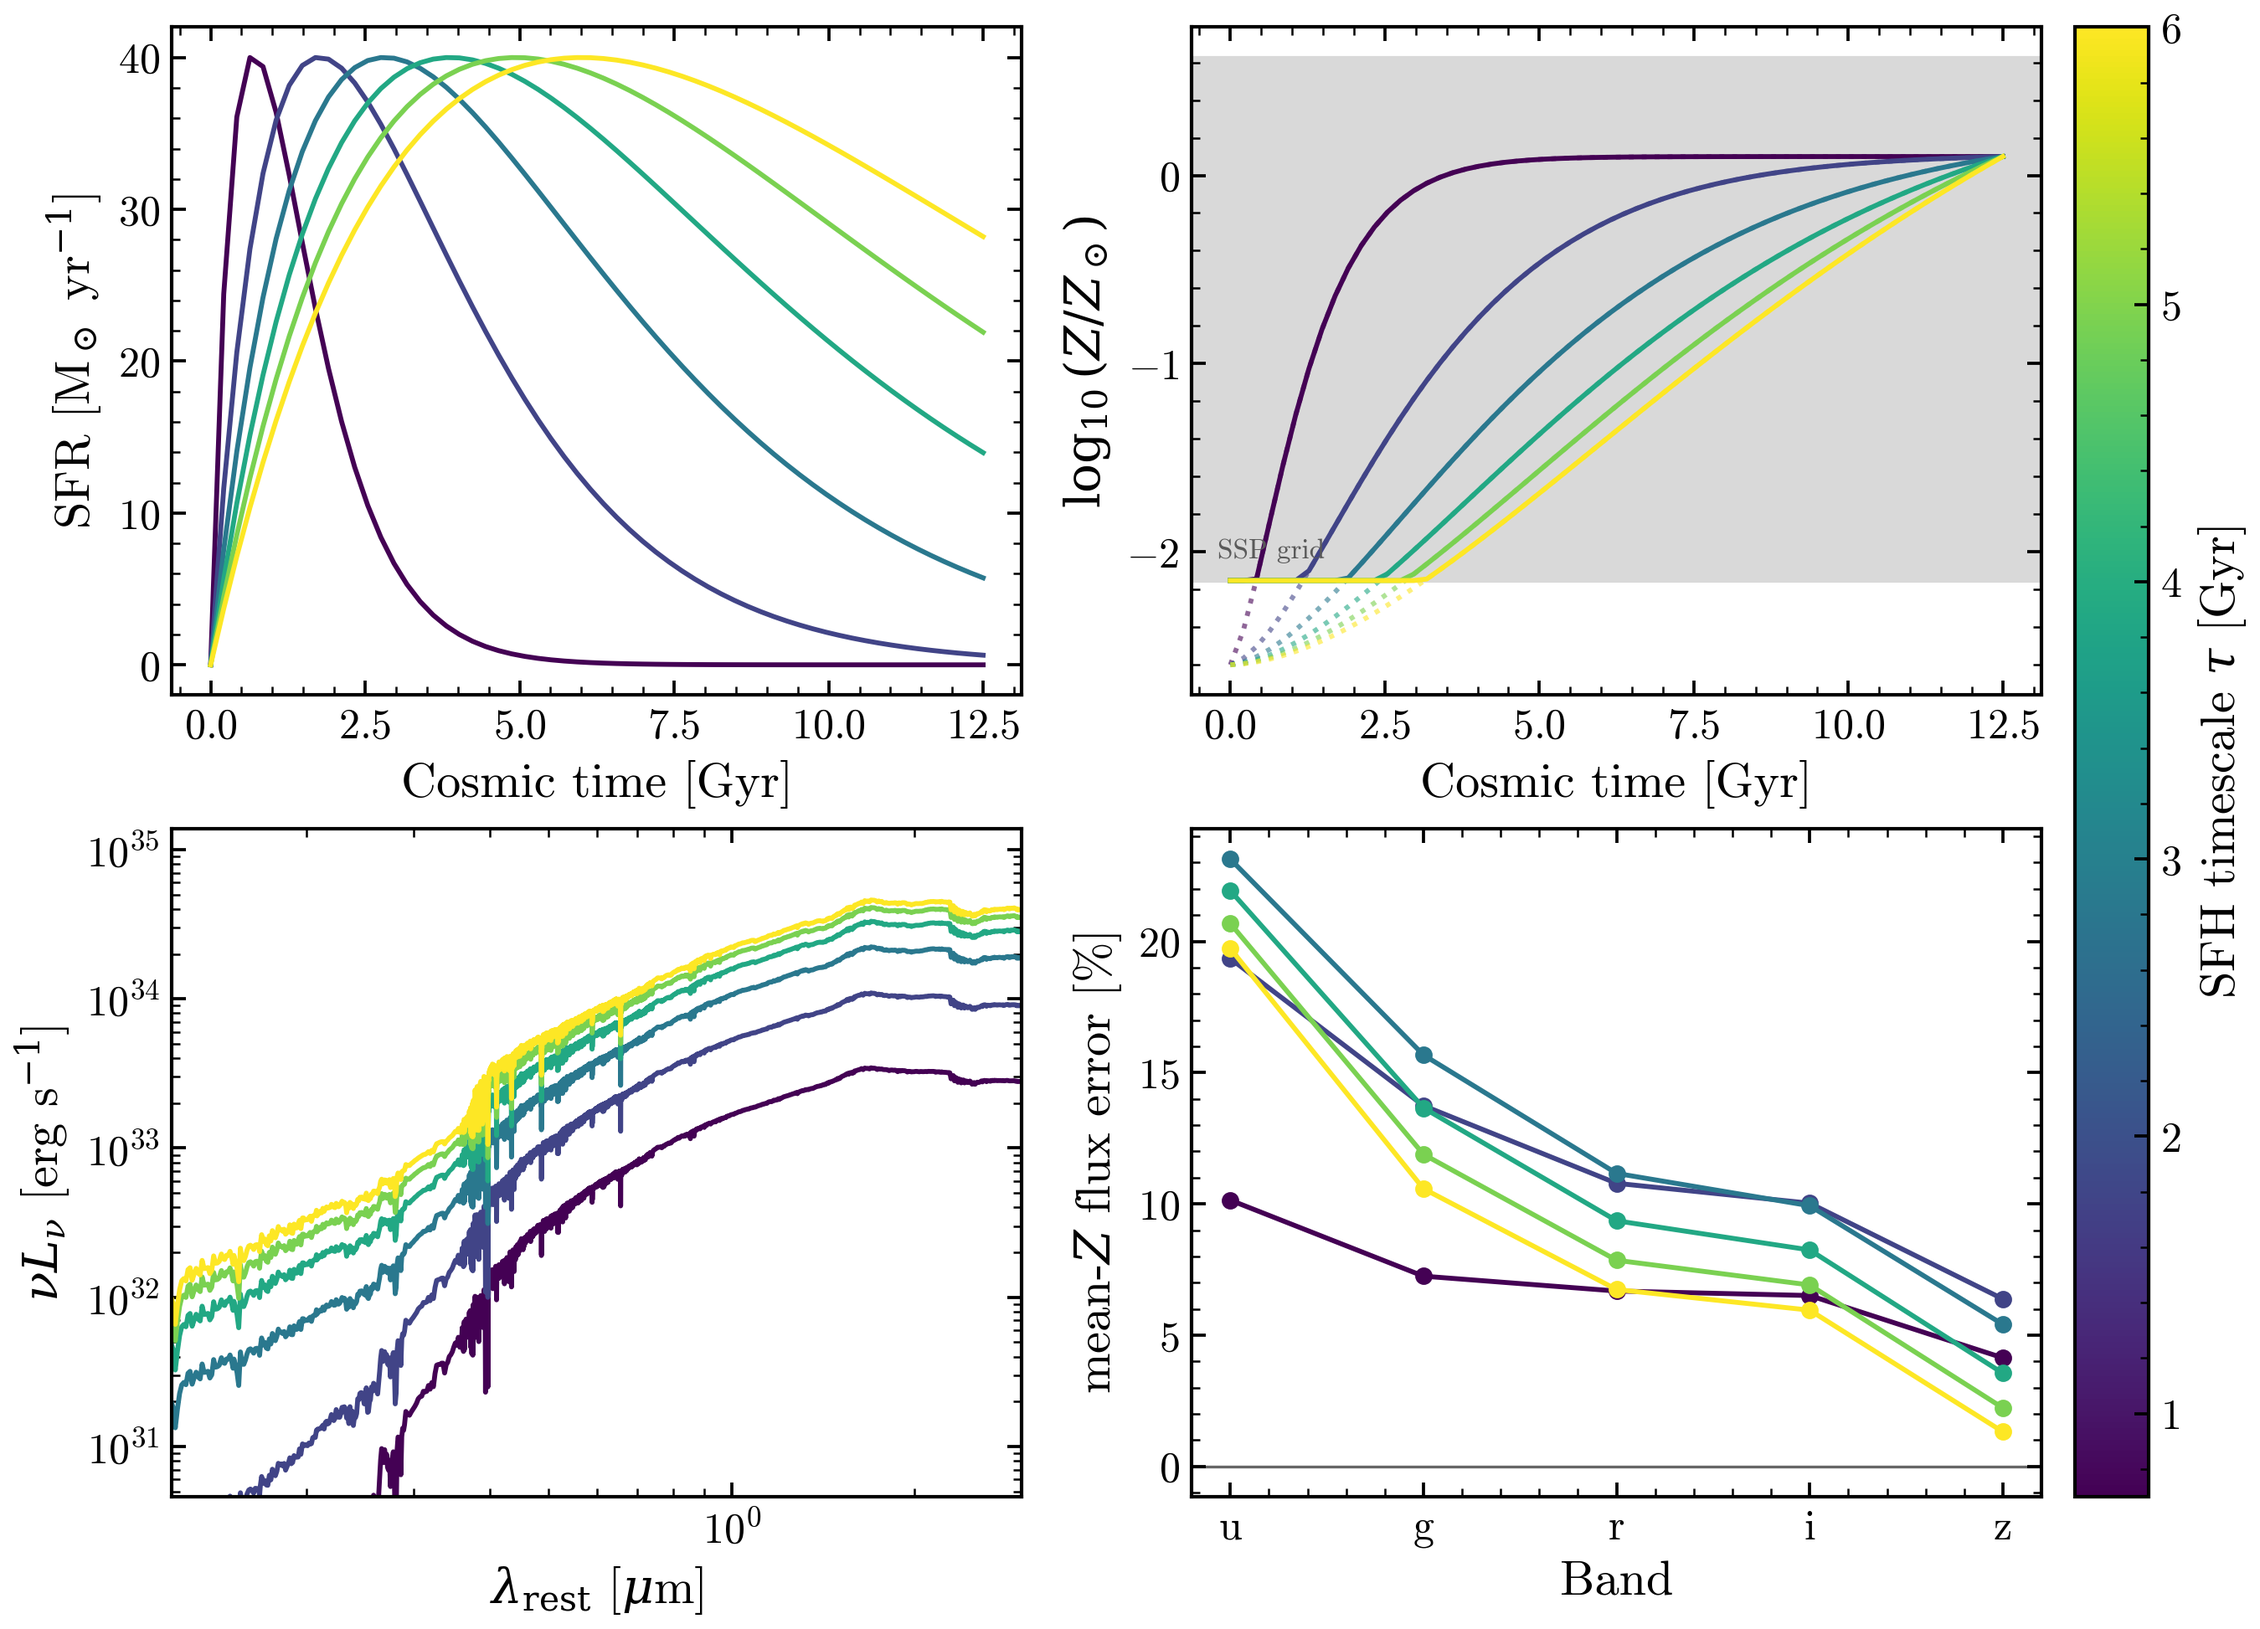
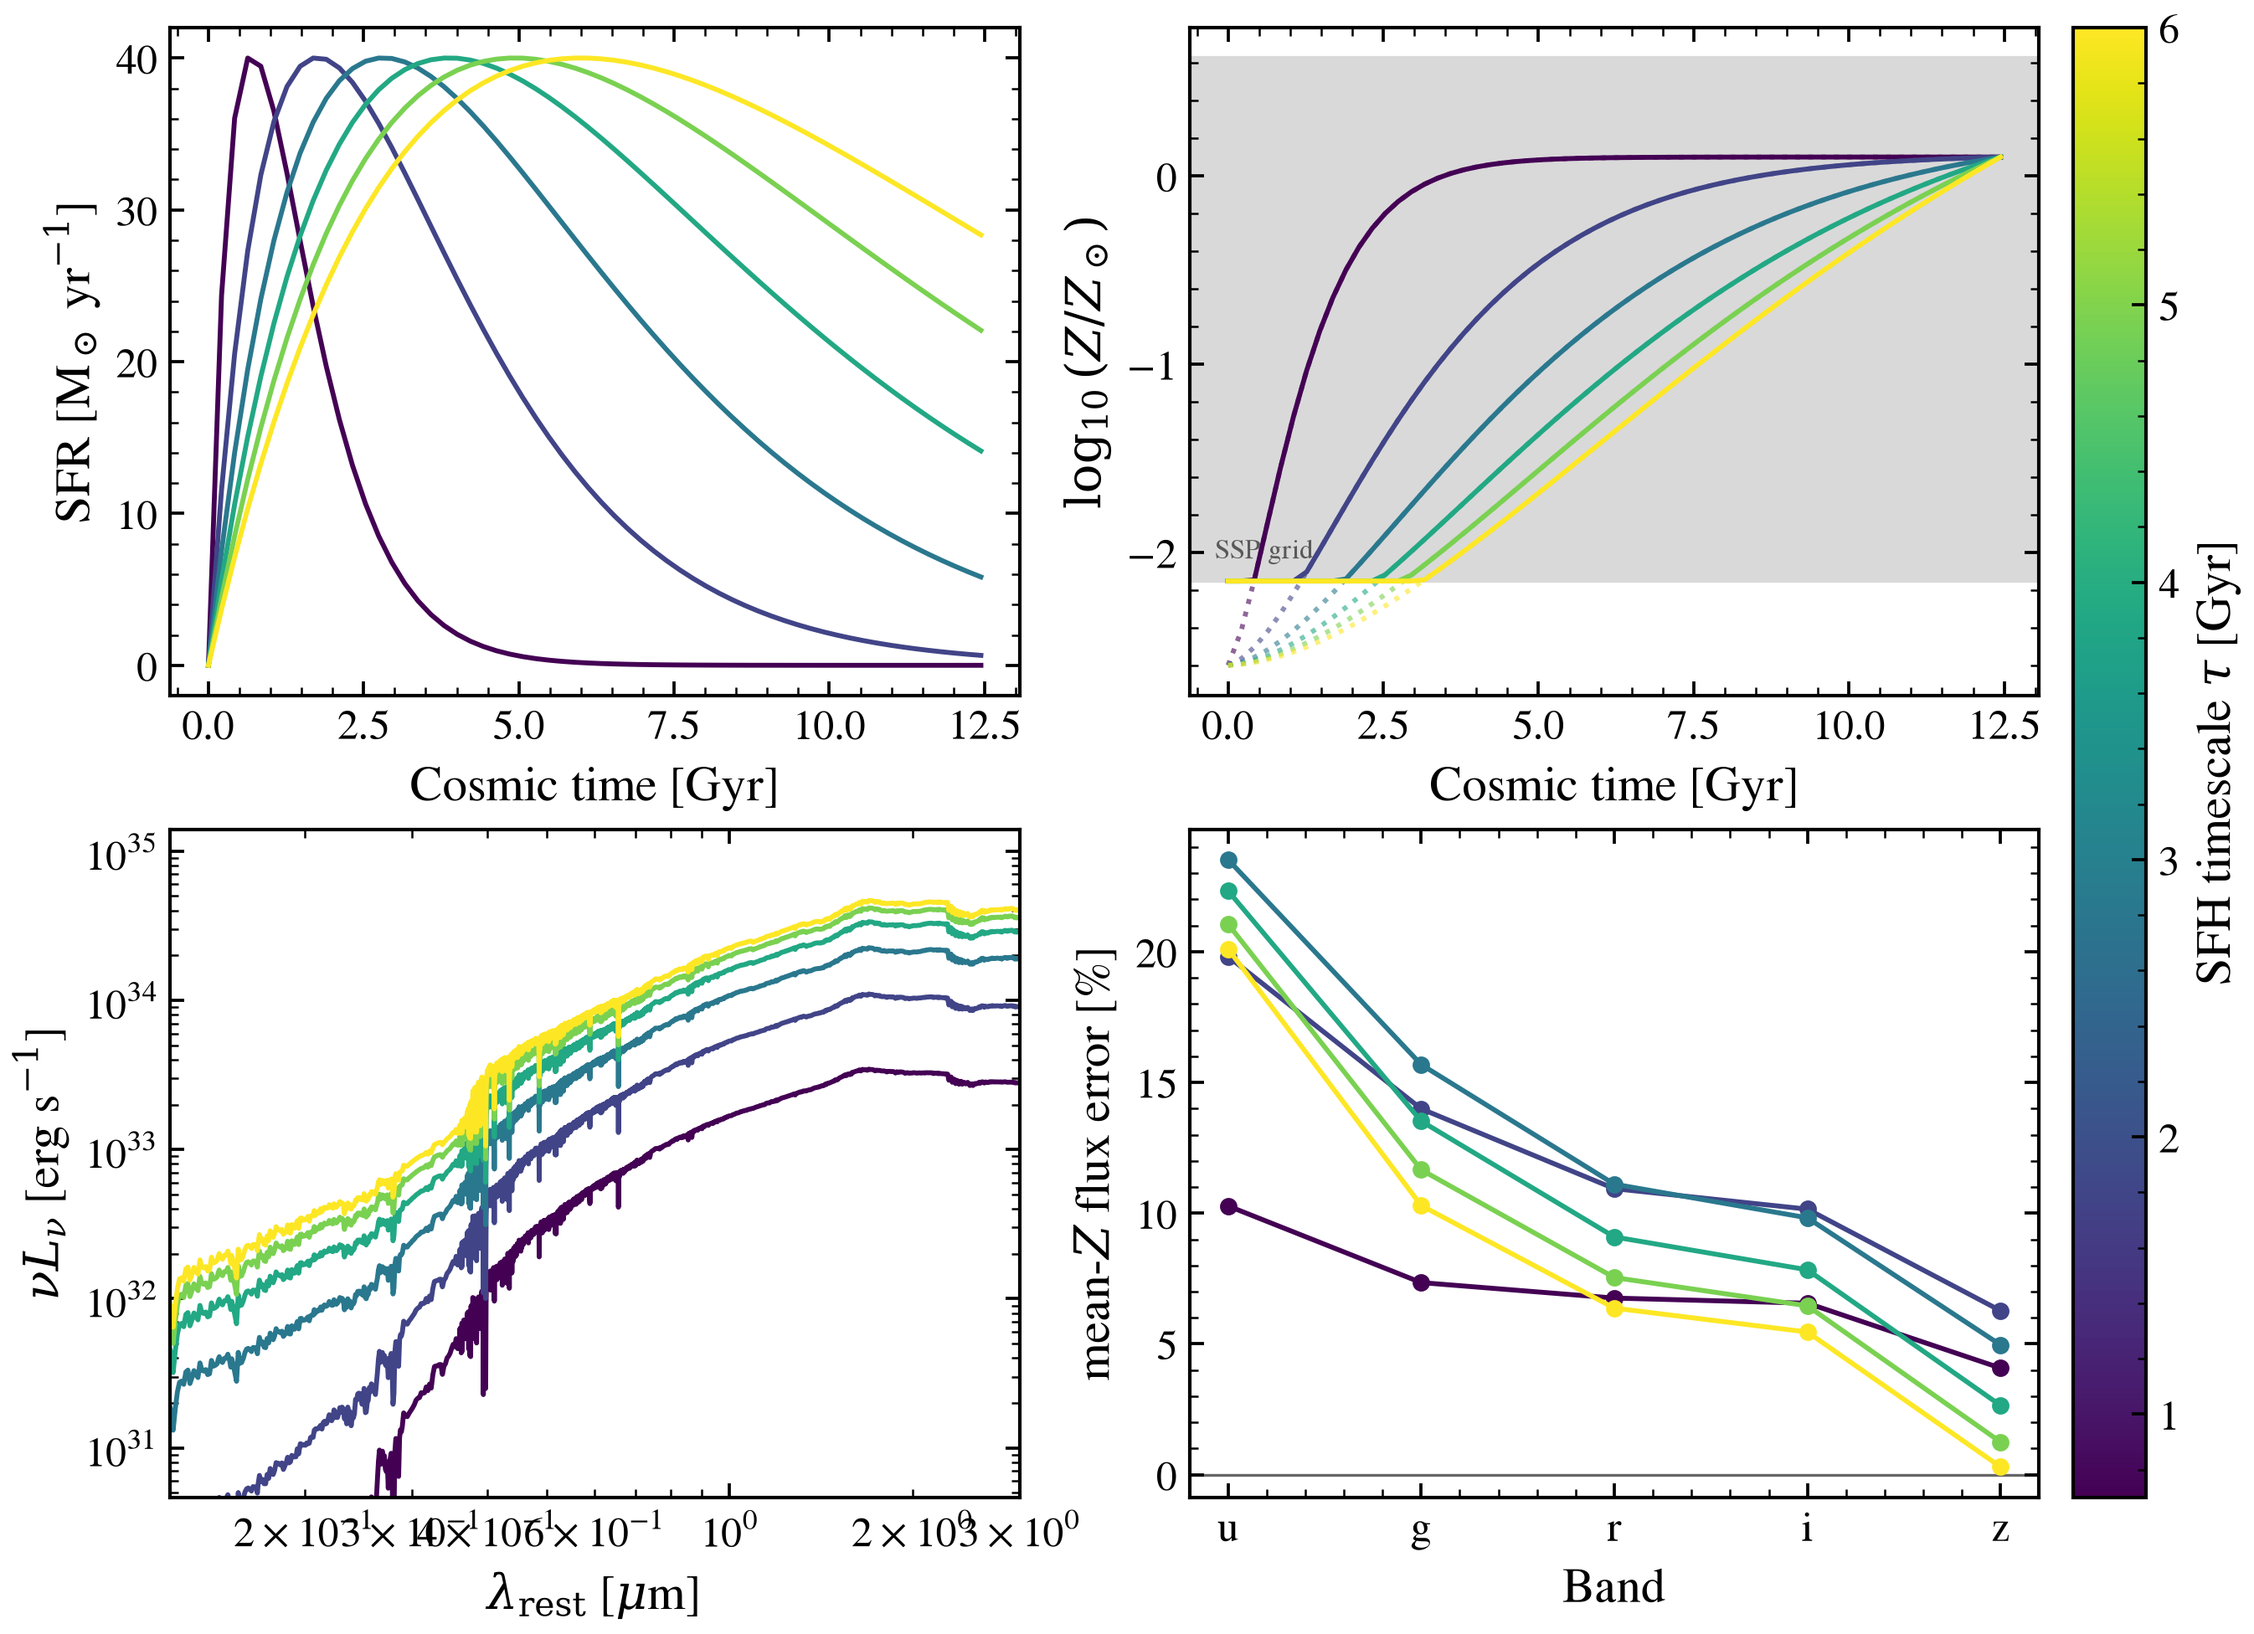
docs: simulation-SED example ends its history at the observation time (#3468)
#3468 (landed in #3462) makes Catalog.from_histories refuse a history
tabulated past age_at_z(z). The example tabulated to 12.5 Gyr while
observing at z = 0.1 (12.44 Gyr), so the gallery job is red on main. The
history now ends at age_at_z(Z_OBS); the render is regenerated with
tools/regen_gallery.py.

Claude-Session: https://claude.ai/code/session_01K6KtiLZatnKeDq8AWTApzQ

diff --git a/docs/auto_examples/usecases/plot_usecase_simulation_seds.py b/docs/auto_examples/usecases/plot_usecase_simulation_seds.py
@@ -23,6 +23,7 @@ import numpy as np
 import tengri
 from tengri.plot import setup_style
 from tengri.units import LOG10_ZSUN
+from tengri.utils.cosmology import age_at_z
 
 setup_style()
 warnings.filterwarnings("ignore", message=".*BakedInBackend.*")
@@ -33,7 +34,9 @@ obs = tengri.Observation(photometry=tengri.Photometry.from_names(bands))
 
 Z_OBS = 0.1
 N_GAL, N_T = 6, 60
-t_gyr = np.linspace(0.0, 12.5, N_T)
+# The history ends at the age of the universe at the observed redshift: SFR
+# after that time cannot reach the observer, and from_histories refuses it.
+t_gyr = np.linspace(0.0, float(age_at_z(Z_OBS)), N_T)
 
 # Stand-in for a snapshot's merger-tree histories: delayed-tau SFHs whose
 # formation timescale varies across the population, from a fast early-forming

diff --git a/examples/usecases/plot_usecase_simulation_seds.py b/examples/usecases/plot_usecase_simulation_seds.py
@@ -23,6 +23,7 @@ import numpy as np
 import tengri
 from tengri.plot import setup_style
 from tengri.units import LOG10_ZSUN
+from tengri.utils.cosmology import age_at_z
 
 setup_style()
 warnings.filterwarnings("ignore", message=".*BakedInBackend.*")
@@ -33,7 +34,9 @@ obs = tengri.Observation(photometry=tengri.Photometry.from_names(bands))
 
 Z_OBS = 0.1
 N_GAL, N_T = 6, 60
-t_gyr = np.linspace(0.0, 12.5, N_T)
+# The history ends at the age of the universe at the observed redshift: SFR
+# after that time cannot reach the observer, and from_histories refuses it.
+t_gyr = np.linspace(0.0, float(age_at_z(Z_OBS)), N_T)
 
 # Stand-in for a snapshot's merger-tree histories: delayed-tau SFHs whose
 # formation timescale varies across the population, from a fast early-forming

diff --git a/docs/auto_examples/usecases/plot_usecase_simulation_seds.rst b/docs/auto_examples/usecases/plot_usecase_simulation_seds.rst
@@ -28,7 +28,7 @@ and old metal-poor stars do not average.
 
 Reference: Conroy+2013.
 
-.. GENERATED FROM PYTHON SOURCE LINES 12-185
+.. GENERATED FROM PYTHON SOURCE LINES 12-188
 
 
 
@@ -42,7 +42,7 @@ Reference: Conroy+2013.
 
  .. code-block:: none
 
-    /tengri/examples/usecases/plot_usecase_simulation_seds.py:62: DefaultFixedParametersWarning: Group 'met' states no 'all_params' disposition, so its remaining parameter was fixed at declared defaults:
+    /tengri/examples/usecases/plot_usecase_simulation_seds.py:65: DefaultFixedParametersWarning: Group 'met' states no 'all_params' disposition, so its remaining parameter was fixed at declared defaults:
       met_alpha_fe=0
 
     To fit them, pass 'all_params': FREE:
@@ -50,6 +50,8 @@ Reference: Conroy+2013.
     To keep them fixed and silence this warning, say so explicitly:
       met={'all_params': Fixed(DEFAULT), ...}
       model_zt = tengri.SEDModel.build(
+    /tengri/src/tengri/forward/sed_model.py:13820: YoungTopMetallicityWarning: met_logzsol reaches Z = 0.1197 (its upper bound, Z = 0.0600, plus 3 x the metallicity-scatter upper bound of 0.1 dex that the scatter kernel spans), above Z = 0.0497, where the metallicity weights start to use the Z = 0.0600 node of this SSP grid (its highest complete node is Z = 0.0400). The Z = 0.0600 node has no stars above ~12 Msun for log10(age/yr) <= 7.15: FSPS ISOCHRONES/PARSEC/isoc_z0.0600.dat: Mini capped at 12.01 Msun for every log age 5.50-7.15 (343 rows at 5.50; isoc_z0.0200.dat reaches 300 Msun); the PARSEC massive-star tracks stop at Z = 0.04 (Chen et al. 2015, MNRAS 452, 1068). The metallicity is therefore held at Z = 0.0400 for log10(age/yr) <= 7.15, and the top node's weight rises linearly with log age to 1 at 7.20; older populations use the top node unchanged. To use a MIST [Z/H] = +0.5 node (FSPS zlegend Z = 0.0449) at young ages instead, load the grid with top_z='mist': tengri.load_ssp(<name>, top_z='mist') or load_ssp_data(<path>, top_z='mist'). That node has MIST isochrones, so between Z = 0.0400 and 0.0449 the young population switches isochrone physics, not only metallicity.
+      return cls(
 
 
 
@@ -74,6 +76,7 @@ Reference: Conroy+2013.
     import tengri
     from tengri.plot import setup_style
     from tengri.units import LOG10_ZSUN
+    from tengri.utils.cosmology import age_at_z
 
     setup_style()
     warnings.filterwarnings("ignore", message=".*BakedInBackend.*")
@@ -84,7 +87,9 @@ Reference: Conroy+2013.
 
     Z_OBS = 0.1
     N_GAL, N_T = 6, 60
-    t_gyr = np.linspace(0.0, 12.5, N_T)
+    # The history ends at the age of the universe at the observed redshift: SFR
+    # after that time cannot reach the observer, and from_histories refuses it.
+    t_gyr = np.linspace(0.0, float(age_at_z(Z_OBS)), N_T)
 
     # Stand-in for a snapshot's merger-tree histories: delayed-tau SFHs whose
     # formation timescale varies across the population, from a fast early-forming
@@ -237,7 +242,7 @@ Reference: Conroy+2013.
 
 .. rst-class:: sphx-glr-timing
 
-   **Total running time of the script:** (0 minutes 4.828 seconds)
+   **Total running time of the script:** (0 minutes 17.123 seconds)
 
 
 .. _sphx_glr_download_auto_examples_usecases_plot_usecase_simulation_seds.py:
